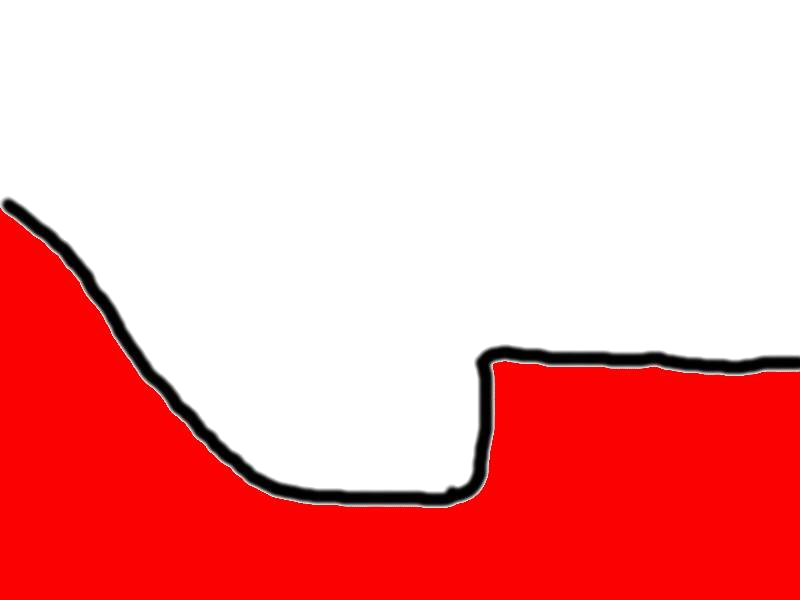
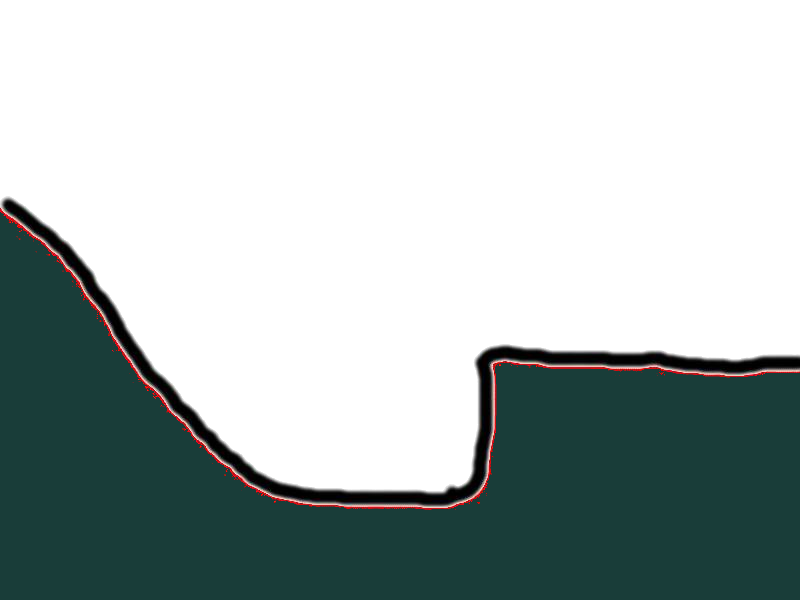
Added the terrain into the game... added a better method of creating terrain, (based on ricky's ground maker)...

diff --git a/main.js b/main.js
@@ -13,7 +13,7 @@ var facing = 'left';
 var jumpButton;
 var isDebug = true;
 var ifCanJump = true;
-var godmode = 0;
+var godmode = 400;
 
 //----------Pause Control-----------
 var paused;
@@ -43,9 +43,14 @@ Game.main.prototype={
         this.load.image('check','assets/check.png');
         //Terrain details
         this.load.physics('physicsdata','assets/world/forest/forest.json');
+        this.load.image('terr-null','assets/world/forest/terr-null.png');
         this.load.image('terr1-1','assets/world/forest/terr1-1.png');
         this.load.image('terr1-2','assets/world/forest/terr1-2.png');
         this.load.image('terr1-3','assets/world/forest/terr1-3.png');
+        this.load.image('terr1-4','assets/world/forest/terr1-4.png');
+        this.load.image('terr1-5','assets/world/forest/terr1-5.png');
+        this.load.image('terr1-6','assets/world/forest/terr1-6.png');
+        this.load.image('terr1-7','assets/world/forest/terr1-7.png');
         //UI
         this.load.image('continue','assets/UI/continue.png');
         this.load.image('help','assets/UI/help.png');
@@ -56,17 +61,19 @@ Game.main.prototype={
 
     },
 
-    terraincreator: function(image,x,y,playerCollisionGroup,isJumpCollisionGroup){
+    terraincreator: function(image,x,y,playerCollisionGroup,isJumpCollisionGroup,realTerrain){
         var terrain = this.add.sprite(x, y,image); //creates the sprite
         this.physics.p2.enableBody(terrain,isDebug);    //enables physics on it
         terrain.body.clearShapes();
-        terrain.body.loadPolygon('physicsdata',image);
+        if(realTerrain){
+            terrain.body.loadPolygon('physicsdata',image);
+            //1.Tells the ground to be part of the jumpable collision group
+            //2.This effectively tells it that it collides with these collision groups.
+            terrain.body.setCollisionGroup(isJumpCollisionGroup);
+            terrain.body.collides([isJumpCollisionGroup, playerCollisionGroup]);
+        }
         terrain.body.static = true;                  //disables gravity for itself...
         terrain.body.fixedRotation = true;           //fixes rotation?
-        //1.Tells the ground to be part of the jumpable collision group
-        //2.This effectively tells it that it collides with these collision groups.
-        terrain.body.setCollisionGroup(isJumpCollisionGroup);
-        terrain.body.collides([isJumpCollisionGroup, playerCollisionGroup]);
     },
 
 
@@ -93,9 +100,20 @@ Game.main.prototype={
         //  (which we do) - what this does is adjust the bounds to use its own collision group.
         this.physics.p2.updateBoundsCollisionGroup();
 
-        terraincreator('terr1-1',400,1600,playerCollisionGroup,isJumpCollisionGroup);
-        terraincreator('terr1-2',1200,1300,playerCollisionGroup,isJumpCollisionGroup);
-        terraincreator('terr1-3',2000,1527,playerCollisionGroup,isJumpCollisionGroup);
+        this.terraincreator('terr1-1',400,1600,playerCollisionGroup,isJumpCollisionGroup,true);
+        this.terraincreator('terr-null',400,2200,playerCollisionGroup,isJumpCollisionGroup,false);
+        this.terraincreator('terr1-2',1200,1300,playerCollisionGroup,isJumpCollisionGroup,true);
+        this.terraincreator('terr-null',1200,1900,playerCollisionGroup,isJumpCollisionGroup,false);
+        this.terraincreator('terr1-3',2000,1527,playerCollisionGroup,isJumpCollisionGroup,true);
+        this.terraincreator('terr-null',2000,2057,playerCollisionGroup,isJumpCollisionGroup,false);
+        this.terraincreator('terr1-4',2800,1595,playerCollisionGroup,isJumpCollisionGroup,false);
+        this.terraincreator('terr-null',2800,2195,playerCollisionGroup,isJumpCollisionGroup,false);
+        this.terraincreator('terr1-5',4000,1527,playerCollisionGroup,isJumpCollisionGroup,false);
+        this.terraincreator('terr-null',4000,2127,playerCollisionGroup,isJumpCollisionGroup,false);
+        this.terraincreator('terr1-6',4800,1350,playerCollisionGroup,isJumpCollisionGroup,false);
+        this.terraincreator('terr-null',4800,1950,playerCollisionGroup,isJumpCollisionGroup,false);
+        this.terraincreator('terr1-7',5600,1470,playerCollisionGroup,isJumpCollisionGroup,false);
+        this.terraincreator('terr-null',5600,2070,playerCollisionGroup,isJumpCollisionGroup,false);
 
         //Create a group that will use this collision group.
         /*
@@ -249,7 +267,7 @@ Game.main.prototype={
         if (!paused){
             if (cursors.left.isDown)
             {
-                player.body.moveLeft(200);
+                player.body.moveLeft(200+godmode);
 
                 if (facing != 'left')
                 {
@@ -259,7 +277,7 @@ Game.main.prototype={
             }
             else if (cursors.right.isDown)
             {
-                player.body.moveRight(200);
+                player.body.moveRight(200+godmode);
 
                 if (facing != 'right')
                 {
